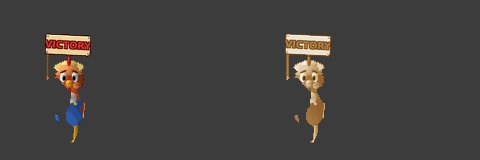
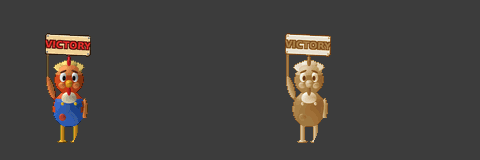
Rusty on the select: whole, lined up with the sepia backdrop
Only DK's arm (his cut-out matches his sepia figure) now stands in front
of Rusty's feet; Cranky's highlighted cut-out is a different pose from his
sepia figure, so it no longer masks Rusty, who shows whole.

Claude-Session: https://claude.ai/code/session_01S1j7pJRr5op4weh9nnuVXR

Changed region(s): [[0.5938, 0.4688, 0.6875, 0.9062], [0.0938, 0.4688, 0.1875, 0.9062]]

diff --git a/updates/art/rusty/build_cutout.py b/updates/art/rusty/build_cutout.py
@@ -15,8 +15,8 @@ writes, next to this script:
                                 its colours are indices 192-223 (sepia_pal.bin, 32 colours)
   cutout.png                    a look at both on the screen
 
-Where DK, Diddy (on his shoulders) and Cranky stand in front of that spot in the backdrop,
-Rusty is cut away (from their own cut-outs' shapes), so he stands behind them.
+Where DK's arm reaches in front of that spot in the backdrop, Rusty is cut away (from DK's
+own cut-out's shape), so his feet stand behind it; the rest of him shows whole.
 
 A piece record (12 bytes): position step y, x (signed, the first from the plot origin),
 attr0 high byte (shape, 256 colours), attr1 high byte (size), tile step (32-byte units),
@@ -101,9 +101,10 @@ def sign(layer, pole_x, pole_y):
 
 
 def gang_mask():
-    """Where the racers in front of Candy's spot stand (DK, Diddy on his shoulders, Cranky),
-    from their own select cut-outs (which match their figures in the backdrop exactly) at
-    their slots' plot origins: Rusty is cut away there, so he stands behind them."""
+    """Where DK's arm (his figure below y 118) reaches in front of Candy's spot, from his own
+    select cut-out (which matches his figure in the backdrop exactly) at his slot's plot
+    origin: Rusty is cut away there, so his feet stand behind it; the rest of him is whole
+    (owner's call)."""
     syms = {}
     for line in open(os.path.join(HERE, "..", "..", "..", "maps", "symbols.txt")):
         p = line.split()
@@ -111,7 +112,7 @@ def gang_mask():
             syms.setdefault(p[-1], int(p[0], 16))
     rom = open(os.path.join(HERE, "..", "..", "..", "baserom.gba"), "rb").read()
     mask = np.zeros((160, 240), bool)
-    for name, origin in (("clr_kong", (-7, -1)), ("clr_diddy", (-7, -1)), ("clr_cranky", (12, -4))):
+    for name, origin, below in (("clr_kong", (-7, -1), 118),):
         fr = syms[name + "_frames"] - 0x08000000
         ch, size, n, info = struct.unpack_from("<IHHI", rom, fr + 4)
         ch -= 0x08000000
@@ -128,7 +129,7 @@ def gang_mask():
                         for xx in range(8):
                             if rom[t + yy * 8 + xx]:
                                 sx, sy = x + tx * 8 + xx, y + ty * 8 + yy
-                                if 0 <= sx < 240 and 0 <= sy < 160:
+                                if 0 <= sx < 240 and below <= sy < 160:
                                     mask[sy, sx] = True
             tile += adv
     return mask
@@ -141,7 +142,7 @@ def to_screen(layer):
     rgb = np.clip(a[..., :3] / np.maximum(a[..., 3:4] / 255.0, 1e-3), 0, 255)
     edge = mask & ~(np.roll(mask, 1, 0) & np.roll(mask, -1, 0) & np.roll(mask, 1, 1) & np.roll(mask, -1, 1))
     rgb[edge] *= 0.5
-    mask &= ~gang_mask()                                    # behind DK, Diddy and Cranky
+    mask &= ~gang_mask()                                    # his feet behind DK's arm
     return rgb, without_slivers(mask)
 
 
